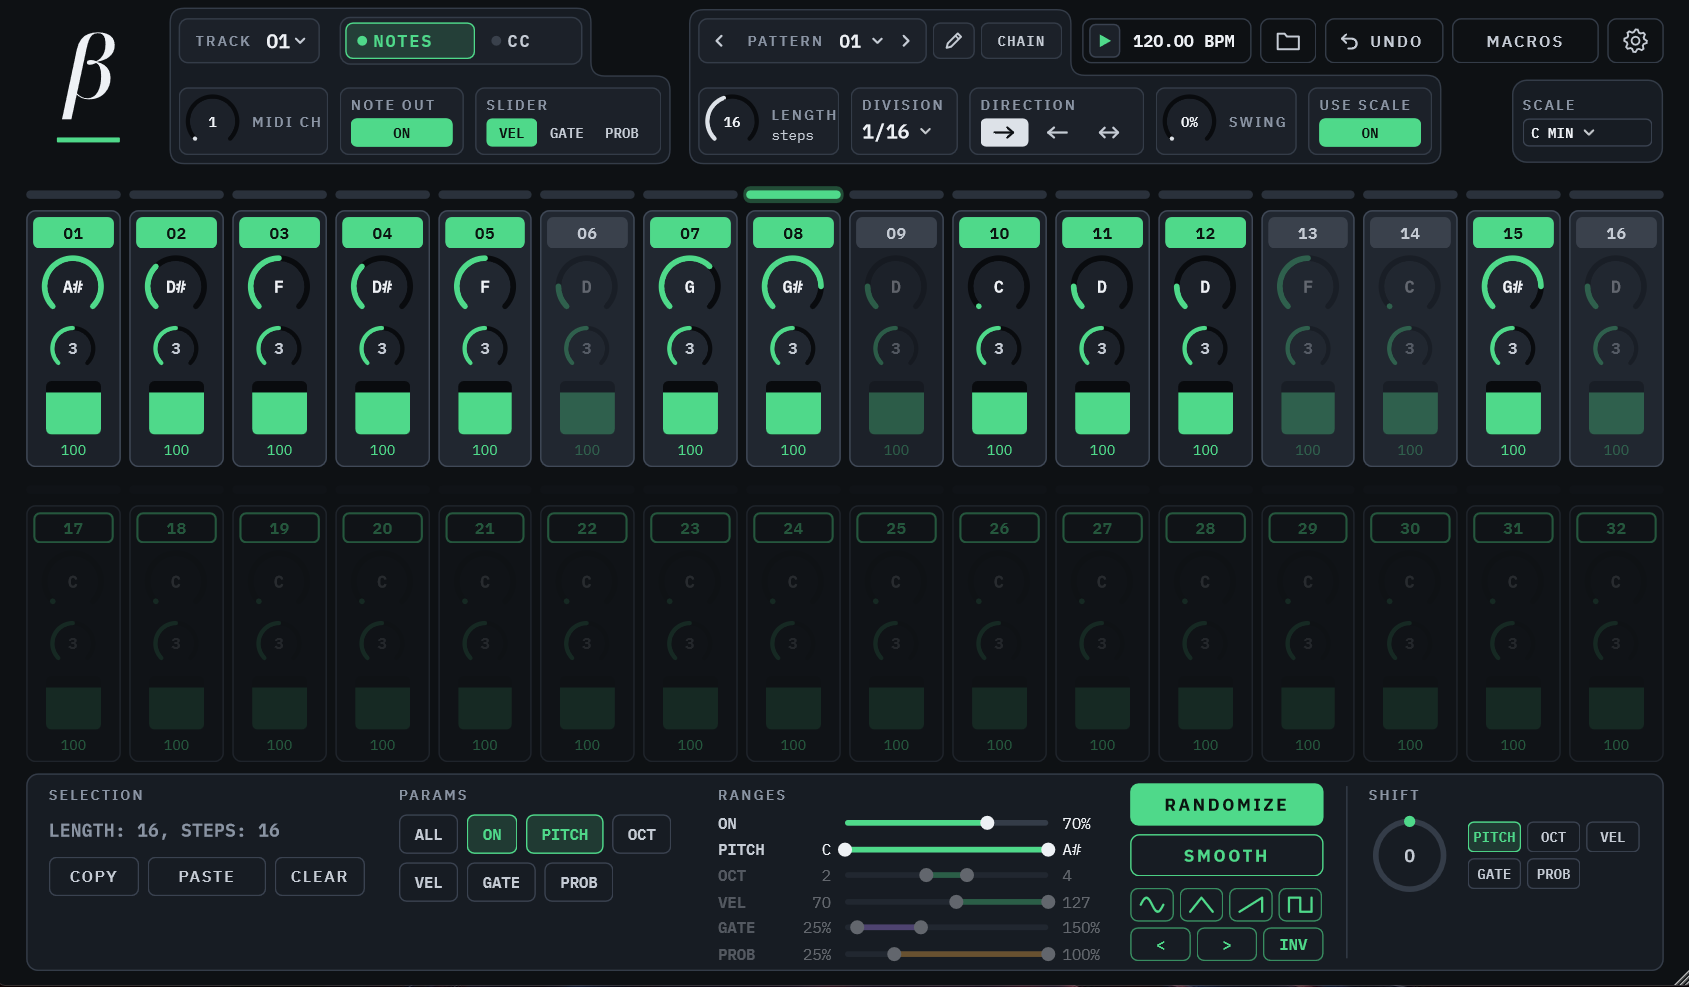
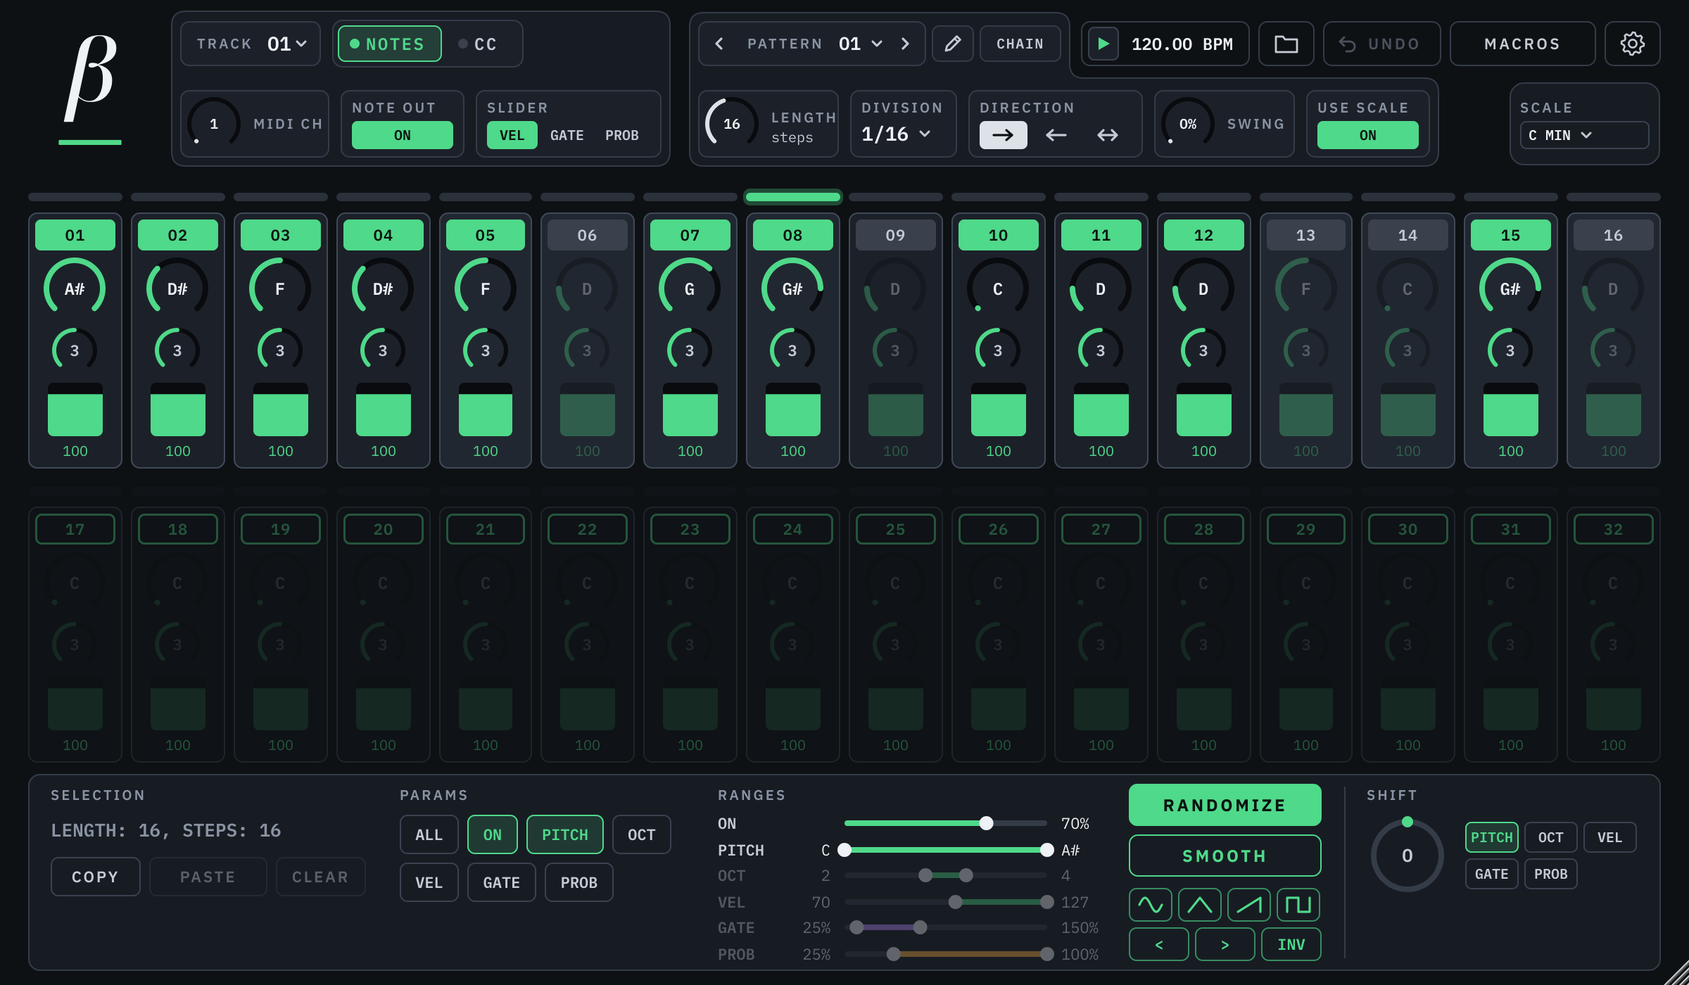
README: v1.7.0 docs draft (Note Input, MIDI thru, Settings view) with new screenshots
Claude-Session: https://claude.ai/code/session_0131ae2gEaWsf3HAmv9ySpQ8

diff --git a/tests/Tests.cpp b/tests/Tests.cpp
@@ -2220,9 +2220,40 @@ int main (int argc, char** argv)
         ed.refreshAll();
         ed.context().openSettings();
         savePng (ed.createComponentSnapshot (ed.getLocalBounds(), true, 2.0f), outDir.getChildFile ("docs-settings@2x.png"));
+        ed.context().openSettings();   // toggles the Settings view off again
+        juce::MessageManager::getInstance()->runDispatchLoopUntil (100);
         ed.context().ui.ccMode = false;
         ed.refreshAll();
         savePng (ed.createComponentSnapshot (ed.getLocalBounds(), true, 2.0f), outDir.getChildFile ("docs-new-notes@2x.png"));
+
+        // the manual's track controls picture: notes with TRIG +2, CC with MIDI THRU
+        proc->edit (-1, [] (Project& p) { p.globals.noteTrigger = NoteTrigger::trigger; });
+        proc->engine.shownTranspose[0] = 2;
+        ed.refreshAll();
+        savePng (ed.createComponentSnapshot (ed.getLocalBounds(), true, 2.0f), outDir.getChildFile ("docs-tile-trig@2x.png"));
+        proc->edit (-1, [] (Project& p) { p.globals.noteTrigger = NoteTrigger::off; p.globals.midiThru = true; });
+        proc->engine.shownTranspose[0] = 0;
+        ed.context().ui.ccMode = true;
+        ed.refreshAll();
+        savePng (ed.createComponentSnapshot (ed.getLocalBounds(), true, 2.0f), outDir.getChildFile ("docs-tile-thru-cc@2x.png"));
+        ed.context().ui.ccMode = false;
+        proc->edit (-1, [] (Project& p) { p.globals.midiThru = false; });
+
+        // the manual's main screenshot: a 16-step C minor line, playing on step 8
+        proc->edit (-1, [] (Project& p)
+        {
+            const int pcs[16] = { 10, 3, 5, 3, 5, 2, 7, 8, 2, 0, 2, 2, 5, 0, 8, 2 };
+            const bool on[16] = { 1, 1, 1, 1, 1, 0, 1, 1, 0, 1, 1, 1, 0, 0, 1, 0 };
+            auto& tr = p.patterns[0].tracks[0];
+            for (int i = 0; i < 16; ++i) { tr.steps[(size_t) i].pitchClass = (std::int8_t) pcs[i]; tr.steps[(size_t) i].on = on[i]; }
+        });
+        proc->engine.isPlaying = true;
+        proc->engine.playStep[0] = 7;
+        ed.refreshAll();
+        juce::MessageManager::getInstance()->runDispatchLoopUntil (100);
+        savePng (ed.createComponentSnapshot (ed.getLocalBounds(), true, 2.0f), outDir.getChildFile ("docs-main@2x.png"));
+        proc->engine.isPlaying = false;
+        proc->engine.playStep[0] = -1;
     }
     {
         auto proc = std::make_unique<VimaProcessor>();

diff --git a/README.md b/README.md
@@ -3,7 +3,7 @@
 </p>
 
 <h1 align="center">
-Vima User Manual
+Vima v1.7.0 User Manual
 </h1>
 
 <p align="center">
@@ -142,6 +142,7 @@ Vima has **8 tracks**, shown as 01 to 08. Each one has its own MIDI channel assi
 
 - **TRACK**: pick which of the 8 tracks you see and edit.
 - **NOTES / CC**: switch between note mode and CC mode. Each button has a small light showing whether that output (notes or CC) is on for this track.
+- **The green tile** next to NOTES / CC: shows **TRIG** or **TRANSP** with the current transposition when **Note input** drives the track (see **Note Input - play Vima as an arpeggiator**), or **MIDI THRU** while MIDI thru passes your incoming MIDI through. Empty when neither is on.
 - **MIDI CH** (1-16): the channel the track plays on. Any track can use any channel, and several tracks can share one.<br />
 **In note mode:** 
 - **NOTE OUT** (on / off): whether the track's notes are sent.
@@ -307,7 +308,7 @@ Finally, the **Shift** knob is an endless knob that moves one value of all steps
 
 At the top of the plugin you can use the **pattern selector** button to either move to next or previous pattern (clicking on arrows) or open a quick pattern selector pop up. This will also allow you to switch to the **patterns view**. 
 
-When changing patterns manually the **Quantize** setting is considered. See also **Settings window**.
+When changing patterns manually the **Quantize** setting is considered. See also **Settings view**.
 
 ### The patterns view
 
@@ -433,6 +434,33 @@ While edit mode is on:
 Switch the pencil off and the main window goes back to the pattern that is playing.
 
 
+## Note Input - play Vima as an arpeggiator
+
+Vima can listen to the notes you play on your keyboard (any MIDI channel) and either **transpose** your sequences or **trigger** them, much like an arpeggiator: hold a key and the pattern plays in that key, release it and it stops. All the related options are in the **Settings view**, under **MIDI INPUT**.
+
+**Note input** has three modes:
+
+- **OFF** (default): incoming notes do nothing (or pass through, with MIDI thru on).
+- **TRANSPOSE**: the keys transpose the chosen tracks while you hold them. Release all keys and the tracks go back to the pattern as written. TRANSPOSE never starts or stops anything; your DAW and Vima's play button still do that.
+- **TRIGGER**: the chosen tracks **only play while you hold a key**, and the key transposes them too. Press a key and they restart from step 1, release all keys and they stop. All chosen tracks start and stop together. The tracks you didn't choose behave as usual:
+  - **Vima playing**: the unchosen tracks keep playing as usual and are never transposed. The chosen ones stay silent until you hold a key.
+  - **Vima stopped**: a key starts the chosen tracks only. If your DAW is rolling they follow its clock, if not they run on Vima's own clock at your DAW's tempo. The play button keeps showing stopped (the keys have their own play), but the running steps still show in the steps view. Press play meanwhile and the other tracks join in without the chosen ones skipping a beat.
+
+**Tracks** (01-08): the tracks Note input acts on. All 8 are on by default. Switch a track off and it ignores the keys and just plays its pattern.
+
+**Quantize**: OFF (default), 1/32, 1/16, 1/8, 1 BEAT or 1 BAR. When a key change takes effect: with OFF from the next step, otherwise at the next 1/32, 1/16, 1/8, beat or bar. In TRIGGER it also times when the tracks start and stop. Set it to 1 BAR and your sequence changes key exactly on the bar line, no matter how sloppy your timing on the keyboard is.
+
+**Base note**: the key that plays your patterns as written, set with two knobs like a step's: **NOTE** (any of the 12 notes) and **OCT**. The default is middle C. Every key above or below it shifts the tracks up or down, exactly like one SHIFT step on PITCH:
+- Tracks with USE SCALE on move by **scale steps**, so the sequence stays in the scale and an octave on your keyboard means 12 scale steps.
+- Tracks with USE SCALE off move by **semitones**.
+
+The base note doesn't have to be in your scale, it's only the "zero" point. CC is never transposed. If you hold several keys, the last one you pressed wins; release it and Vima falls back to the most recent key still held.
+
+In the steps view, the green tile in the track controls shows **TRIG** or **TRANSP** and the current transposition of the track you're looking at ("+2", "-3", "+0" with no key held).
+
+>**Design choice: why hold only, and no toggle?** Holding a key is how every synth and arpeggiator behaves, so your hands already know it. Lift your fingers and the tracks stop: no guessing which state a track is in. The Quantize setting is there so you can hold keys loosely and still land on the grid.
+
+
 ## Macros: automating Vima from your DAW
 
 ### One more design choice: Why macros?
@@ -507,7 +535,7 @@ The **transport** section of Vima at the top displays your DAW's BPM. The **play
 
 ## SCALE
 
-Vima can be set to send note messages in a defined scale. Clicking the **SCALE** button on the right opens a pop up to pick a root and one of 13 scales or your own USER scale (defined in Settings window). The mouse wheel over it steps through the scales.
+Vima can be set to send note messages in a defined scale. Clicking the **SCALE** button on the right opens a pop up to pick a root and one of 13 scales or your own USER scale (defined in the Settings view). The mouse wheel over it steps through the scales.
 
 <p align="center">
   <img src="docs/images/scale-popup.png" width="350" alt="Scale">
@@ -536,7 +564,7 @@ Clicking the **file** button (with a folder icon) at the top of the plugin opens
 **PRESET**: the music of the whole instance.
 
 - Holds all 64 patterns, the chain, the track routing, the scale, root and user scale, the PARAMS and RANGES, and the current pattern.
-- Does **not** hold the macro mappings, the settings found only in the Settings dialog (CC smoothing and its curve, pattern change by CC, quantize), the theme, middle C or the window size. Loading a preset leaves all of those as they are.
+- Does **not** hold the macro mappings, the settings found only in the Settings view (CC smoothing and its curve, MIDI thru, Note input, pattern change by CC, quantize), the theme, middle C or the window size. Loading a preset leaves all of those as they are.
 - **NEW** loads a new init preset: all tracks 16 steps long, 1/16 division, track 1 with all its note steps on.
 - **LOAD...** loads a saved preset.
 - **SAVE** saves changes to a loaded preset (greyed out if no saved preset is loaded).
@@ -569,12 +597,12 @@ You can also save or load a pattern by right-clicking a cell in the patterns vie
 Your DAW's own preset system (for example Live's .adv or .vstpreset files) also works and stores everything, mappings included.
 
 
-## The Settings window
+## The Settings view
 
-The **settings** pop up opens with the **SETTINGS** button (the gear icon). Click **DONE** or anywhere outside it to close.
+The **SETTINGS** button (the gear icon) switches Vima to the **Settings view**, just like PATTERNS and MACROS switch to theirs. Click the gear again (or STEPS, PATTERNS, MACROS) to leave it. Every setting applies the moment you click it, so there is nothing to confirm.
 
 <p align="center">
-  <img src="docs/images/vima-settings.png" width="600" alt="Settings pop">
+  <img src="docs/images/vima-settings.png" width="800" alt="Settings view">
 </p>
 
 **APPEARANCE: Theme**, DARK or LIGHT. This is **your** preference: it applies to every Vima in every project, and switching it in one Vima switches all open ones.
@@ -592,6 +620,10 @@ The **settings** pop up opens with the **SETTINGS** button (the gear icon). Clic
 
 **Curve**: the shape of the glide while smoothing is on. **LINEAR** moves evenly from one value to the next. **EXP** starts slow and speeds up into the next value, **LOG** moves fast first and then settles into it. Parameters like filter cutoff often sound more natural with EXP or LOG, since our ears don't hear their changes evenly. Like smoothing, the curve applies to every track.
 
+**MIDI INPUT: MIDI thru**: by default Vima only sends what it generates and ignores whatever arrives at its input. Switch **MIDI thru** on and everything coming in (notes, CC, pitch bend, all of it) passes straight through to Vima's output, mixed with Vima's own notes. Handy when Vima sits on a MIDI track between your controller and your synth: you can play along on top of the sequence without rerouting anything. MIDI thru is off by default. Pattern change CC messages (see below) are always used by Vima and never passed through.
+
+**Note input**, **Tracks**, **Quantize** and **Base note**: see **Note Input - play Vima as an arpeggiator**. While Note input is on, every incoming note belongs to it: MIDI thru is greyed out and nothing passes through. Your MIDI thru setting is kept and comes back when Note input is OFF.
+
 **PATTERN CHANGE**:
 **From incoming CC**: You can use this setting to switch patterns with a CC message, on the MIDI channel and CC number you set. Value 0 picks pattern 01, value 63 picks pattern 64. Great for switching patterns from a hardware controller or from another track in your DAW.
 
@@ -600,7 +632,7 @@ The **settings** pop up opens with the **SETTINGS** button (the gear icon). Clic
 - **1 BEAT** / **1 BAR**: at the next beat or bar of your DAW's time signature (1 BAR is the default setting).
 - **PATTERN END**: when the playing pattern reaches its end.
 
-**RESET DEFAULTS** puts everything in this dialog back to its starting value. The theme and middle C are reset for every Vima; the scale you selected is kept.
+**RESET DEFAULTS** puts everything in this view back to its starting value. The theme and middle C are reset for every Vima; the scale you selected is kept.
 
 Except for the theme and middle C, these settings belong to each Vima in your project and are saved with the project, but not in presets: a preset is about the MIDI output setup, these are about how the instance is set up.
 

diff --git a/SPEC.md b/SPEC.md
@@ -656,7 +656,7 @@ The PDF manual is written from this spec. Material that belongs only in the manu
 
 ### 15.1 Decided, not built yet
 
-- **Docs for v1.7.0** (only when the user has settled the text; MANUAL.md, README.md, the PDF): the version next to the Vima title from now on ("1.7.0"); NOTE INPUT (TRANSPOSE / TRIGGER, Tracks, Quantize, base note), MIDI THRU, the track frame TRIG / TRANSP / MIDI THRU tile, the Settings view in two columns, and a new Settings screenshot (docs/images/vima-settings.png).
+- **Docs for v1.7.0** (README.md drafted 2026-11-20 for the user's review: version in the title, the "Note Input - play Vima as an arpeggiator" section after Working with patterns, MIDI thru in the Settings view section, new main / track controls / Settings screenshots; MANUAL.md, the PDF and the PDF in the release follow once the user approves the README): the version next to the Vima title from now on ("1.7.0"); NOTE INPUT (TRANSPOSE / TRIGGER, Tracks, Quantize, base note), MIDI THRU, the track frame TRIG / TRANSP / MIDI THRU tile, the Settings view in two columns, and a new Settings screenshot (docs/images/vima-settings.png).
 
 ### 15.2 Open
 
